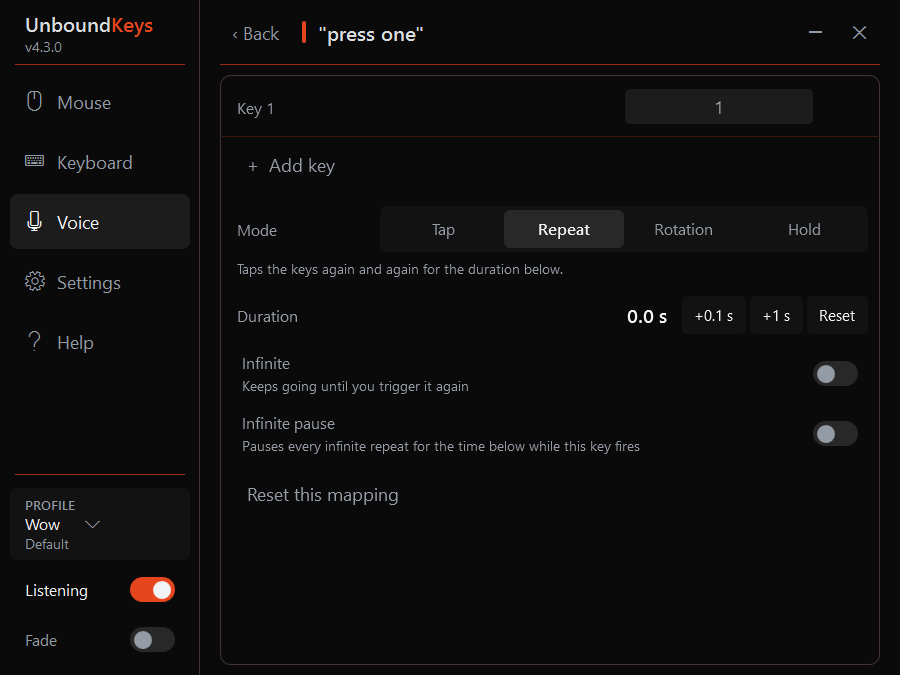
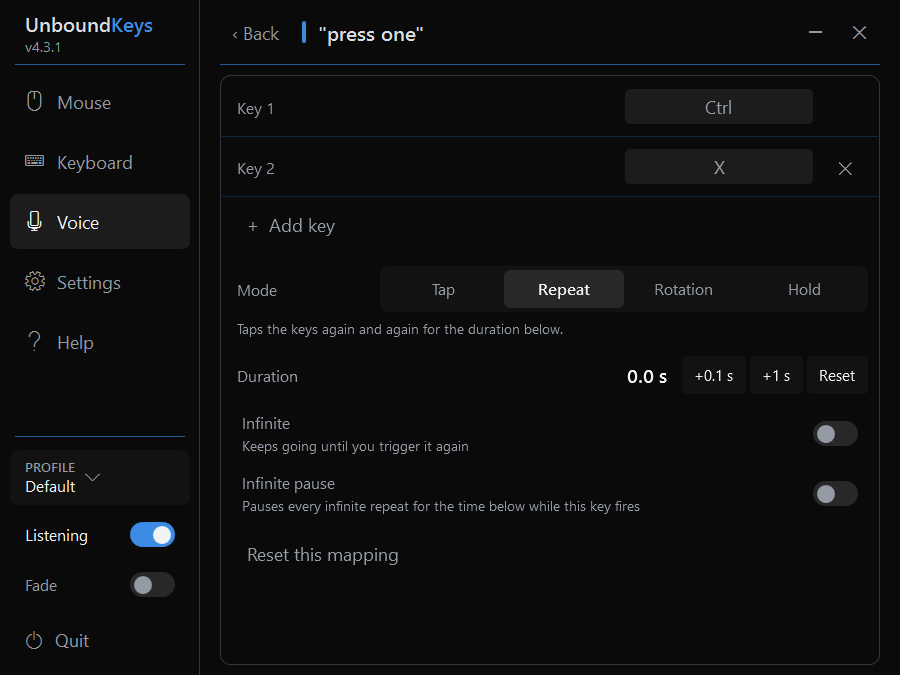
One copy at a time; screenshots for 4.3.1; a sturdier screenshot tool
A second launch (the UBK shortcut clicked again after the dashboard was
hidden) started a second app with a second set of hooks, so every
remapped key fired twice. SingleInstance holds a named mutex; a later
copy asks the running one to show its dashboard (a registered window
message, broadcast; DashboardWindow answers it) and quits before setting
any hook. Screenshots retaken with Quit on the rail. The screenshot tool
finds the dashboard by window title rather than by process (which missed
it with two copies running), retries a Mini/Maxi click once, and always
puts the keyboard size back in a finally.

diff --git a/SingleInstance.cs b/SingleInstance.cs
@@ -1,0 +1,44 @@
+using System.Runtime.InteropServices;
+
+namespace UnboundKeys;
+
+// One copy at a time. A second launch (the shortcut clicked again after the
+// dashboard was "lost" to the tray, say) used to start a second app with a
+// second set of hooks, so every remapped key fired twice. Now the first
+// copy holds a named mutex; a later one finds it held, asks the running
+// copy to show its dashboard (a registered window message, broadcast to
+// every top-level window — both copies run elevated, so it gets through),
+// and quits before touching a hook.
+public static class SingleInstance
+{
+    private const string MutexName = "UnboundKeys.SingleInstance";
+
+    public static readonly int ShowDashboardMessage = RegisterWindowMessage("UnboundKeys.ShowDashboard");
+
+    private static Mutex? _held;
+
+    // True if this is the first copy (and the mutex is now held for the
+    // life of the process); false if another copy already runs.
+    public static bool Claim()
+    {
+        var mutex = new Mutex(initiallyOwned: true, MutexName, out bool createdNew);
+        if (createdNew)
+        {
+            _held = mutex;
+            return true;
+        }
+        mutex.Dispose();
+        return false;
+    }
+
+    public static void AskRunningCopyToShowDashboard() =>
+        PostMessage(HWND_BROADCAST, ShowDashboardMessage, IntPtr.Zero, IntPtr.Zero);
+
+    private static readonly IntPtr HWND_BROADCAST = new(0xFFFF);
+
+    [DllImport("user32.dll", CharSet = CharSet.Unicode)]
+    private static extern int RegisterWindowMessage(string message);
+
+    [DllImport("user32.dll")]
+    private static extern bool PostMessage(IntPtr hWnd, int msg, IntPtr wParam, IntPtr lParam);
+}

diff --git a/Program.cs b/Program.cs
@@ -5,13 +5,21 @@ namespace UnboundKeys;
 // UnboundKeys' whole runtime lives here: the speech engine and the two
 // input hooks feed KeyExecutor, and the WPF dashboard (Wpf/DashboardWindow)
 // plus a tray icon are the user's side of it. The dashboard hides rather
-// than closing, so the app runs until Quit (in the dashboard's Settings);
-// the tray icon or "press menu" brings the dashboard back.
+// than closing, so the app runs until Quit (the rail's last row, or
+// Settings); the tray icon or "press menu" brings the dashboard back.
 static class Program
 {
     [STAThread]
     static void Main()
     {
+        // One copy at a time (see SingleInstance): a second launch hands
+        // over to the running one and leaves, before any hook is set.
+        if (!SingleInstance.Claim())
+        {
+            SingleInstance.AskRunningCopyToShowDashboard();
+            return;
+        }
+
         // Spelled out fully: with both UseWindowsForms (kept for the tray
         // icon) and UseWPF on, a bare "Application" is ambiguous. The
         // dashboard hiding must not end the app, hence explicit shutdown.

diff --git a/Wpf/DashboardWindow.xaml.cs b/Wpf/DashboardWindow.xaml.cs
@@ -47,6 +47,19 @@ public partial class DashboardWindow
                 SavePlacement();
         };
         Closing += (_, _) => SavePlacement();
+
+        // A second copy of the app, started by mistake, asks this one to
+        // show itself before it quits (see SingleInstance).
+        SourceInitialized += (_, _) =>
+            System.Windows.Interop.HwndSource.FromHwnd(new System.Windows.Interop.WindowInteropHelper(this).Handle)?.AddHook((IntPtr _, int msg, IntPtr _, IntPtr _, ref bool handled) =>
+            {
+                if (msg == SingleInstance.ShowDashboardMessage)
+                {
+                    ShowDashboard();
+                    handled = true;
+                }
+                return IntPtr.Zero;
+            });
     }
 
     public void ToggleVisible()
